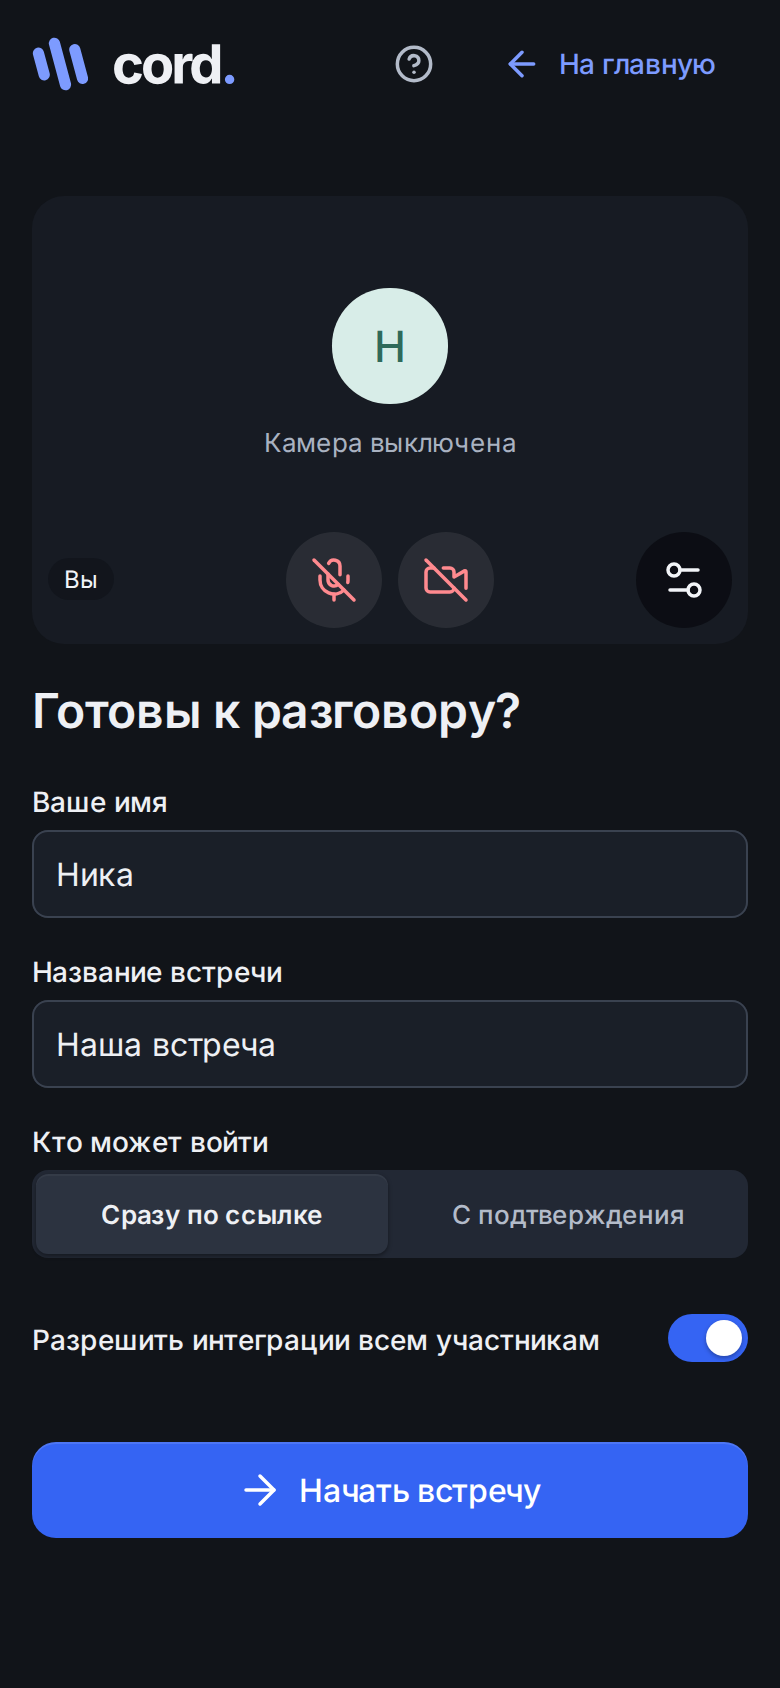
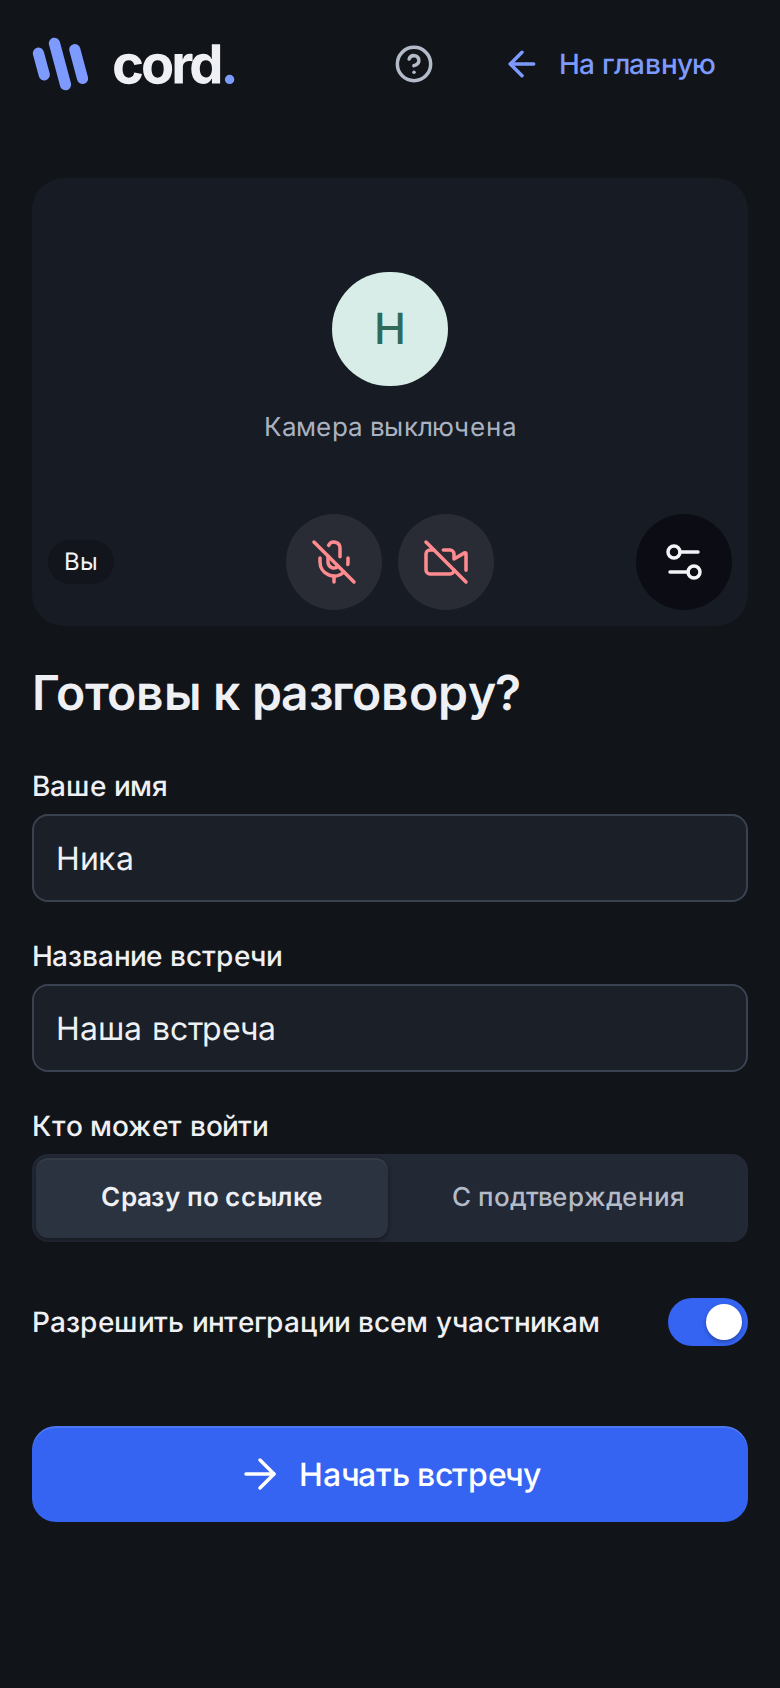
Предвход: две колонки и в самом узком окне клиента Windows (720 × 480) — без прокрутки; STATUS: R60, R72–R74, R76, R80–R82, R95, R103 готовы в ветке review/prejoin
Порог одной колонки — контейнер 680 px, ниже окна клиента 720 px: там две колонки помещаются и в
480 px высоты, а полоса прокрутки одной колонки перекидывала окно 720 px за порог и обратно. Поля по
высоте — 3dvh (в 480 px форма без прокрутки). e2e `meeting.spec` — и 720 × 480…900; снимки «после»
переснятые.

diff --git a/web/src/ui/prejoin.css b/web/src/ui/prejoin.css
@@ -12,9 +12,9 @@
   прокрутки документа, и с ней страница стала бы шире окна. Только токены `styles/tokens.css`.
 */
 .prejoin-page {
-  /* Шапка и поля по высоте: 64 / 24 px в высоком окне, 48 / 12 px в окне 600 px и ниже — плавно. */
+  /* Шапка и поля по высоте: 64 / 27 px в окне 900 px, 48 / 14 px в окне 480 px — плавно, без ступеней. */
   --prejoin-header-h: clamp(48px, 8dvh, 64px);
-  --prejoin-pad-y: clamp(var(--space-3), 4dvh, var(--space-12));
+  --prejoin-pad-y: clamp(var(--space-3), 3dvh, var(--space-12));
   min-height: 100dvh;
   display: grid;
   /* Колонка не шире окна, даже если содержимому шапки тесно (`minmax(0, …)`, а не `auto`). */
@@ -270,10 +270,12 @@
 
 /*
   Одна колонка: превью сверху, форма под ним, ширина до 560 px. Порог — ширина контейнера, а не
-  окна, и он один (без прежних ступеней 1199 / 767 / 560). Превью — не выше 42 % окна, чтобы форма
+  окна, и он один (без прежних ступеней 1199 / 767 / 560). Ниже самого узкого окна клиента Windows
+  (720 px): там две колонки помещаются без прокрутки и в 480 px высоты, а полоса прокрутки одной
+  колонки иначе перекидывала бы окно 720 px за порог и обратно. Превью — не выше 42 % окна, чтобы форма
   и кнопка входа поместились под ним.
 */
-@container prejoin (max-width: 719px) {
+@container prejoin (max-width: 679px) {
   .prejoin-main {
     grid-template-columns: minmax(0, 1fr);
     justify-self: center;

diff --git a/backlog/review-1.0.3/STATUS.md b/backlog/review-1.0.3/STATUS.md
@@ -63,7 +63,7 @@
 | R57 | WD1 | готово (22.10): релиз `desktop-v1.0.4`, зеркало `/downloads/windows/desktop/latest.yml` = 1.0.4; живая проверка на Windows — OWNER-ACTIONS | CI `desktop.yml` 39752311530 (test-installer: «Крестик: Cord жив, окно спрятано в трей», tray.ico 5+1 записей, AUMID `tech.cord.desktop`) |
 | R58 | WD1 | готово (22.10): релиз `desktop-v1.0.4`, зеркало `/downloads/windows/desktop/latest.yml` = 1.0.4; живая проверка на Windows — OWNER-ACTIONS | CI `desktop.yml` 39752311530 (test-installer: «Крестик: Cord жив, окно спрятано в трей», tray.ico 5+1 записей, AUMID `tech.cord.desktop`) |
 | R59 | WD1, W3 | оболочка — релиз 1.0.4; веб — готово, выкачено (24.10, `f893a81`); toast вживую — OWNER-ACTIONS | `core/desktop-notify.test.ts` (14), `core/meeting.test.ts` «уведомления Windows», `core/desktop-bridge.test.ts` (схема `contracts/desktop-bridge.v2.schema.json`) |
-| R60 | W7, WD2 | ждёт | |
+| R60 | W7, WD2 | веб — готово в ветке `review/prejoin` (24.10), не выкачено (`ef27202`); оболочка — окно выбора удалено в `review/desktop-wd2a` (`2ad92d7`) | окно показа — единственное: вкладки «Приложения · Весь экран · Устройства» (камеры, кроме своей; карта захвата — как показ, со своим звуком), «Звук компьютера» слева, сводка, «Чёткость / Плавность», шестерёнка (качество 720/1080/1440 × 30/60, превью, режим звука), одна «Показать»; выбор помнится в `preferences.screen` (+ `audio`); `ui/capture-picker.test.tsx` (8), `core/preferences.test.ts`, `media/capture.test.ts` (`deviceCapture`); e2e `capture-picker.spec.ts` (мост v2 подменён) против стенда через `stand-dev` 1/1; `review-1.0.3/shots/r60-picker-{before,after}-*` (1440, 768, обе темы) |
 | R61 | WD1 | готово (22.10): релиз `desktop-v1.0.4`, зеркало `/downloads/windows/desktop/latest.yml` = 1.0.4; живая проверка на Windows — OWNER-ACTIONS | CI `desktop.yml` 39752311530 (test-installer: «Крестик: Cord жив, окно спрятано в трей», tray.ico 5+1 записей, AUMID `tech.cord.desktop`) |
 | R62 | WD2 | ждёт | |
 | R63 | WD2 | ждёт | |
@@ -75,17 +75,17 @@
 | R69 | W-int | ждёт | |
 | R70 | W5 | ждёт | |
 | R71 | W5 | ждёт | |
-| R72 | W7 | ждёт | |
-| R73 | W7 | ждёт | |
-| R74 | W7 | ждёт | |
+| R72 | W7 | готово в ветке `review/prejoin` (24.10), не выкачено (`da9c0c2`) | зонтичная — R73, R74, R76; «Перед разговором» — kit `Dialog` не выше окна, без подзаголовка, качество сегментами (R78); `ui/prejoin.test.tsx` (5: 720p · 30 по умолчанию, отказ устройства под превью, команда создания); `review-1.0.3/shots/r72-settings-{before,after}-*` |
+| R73 | W7 | готово в ветке `review/prejoin` (24.10), не выкачено (`da9c0c2`) | в 1280×714 всё в окне, кнопка входа видна, превью и форма с одной линии (разница верхов ≤ 8 px), полоса `html` не нужна; e2e `meeting.spec` «предвход помещается в любое окно…»; `review-1.0.3/shots/r76-prejoin-{before,after}-1280x714-*` |
+| R74 | W7 | готово в ветке `review/prejoin` (24.10), не выкачено (`da9c0c2`) | ×8 убраны «айбрау», «Проверьте, как вас видят…», «Название можно будет поменять…», пояснения под доступом, «Иначе кинозал…», «Это можно поменять и потом…», наушники, заметка о разрешении (отказ — строкой под превью после отказа), «Ссылка и QR…», подзаголовок «Перед разговором»; «Кто может войти» — сегмент «Сразу по ссылке / С подтверждения», интеграции — `Switch`; `ui/prejoin.test.tsx`, e2e `meeting.spec`, `return-and-settings.spec` (радио «С подтверждения») |
 | R75 | W0 | готово, выкачено (22.10, `768aef9`) | `focus-modality.spec` «меню избранного» |
-| R76 | W7 | ждёт | |
+| R76 | W7 | готово в ветке `review/prejoin` (24.10), не выкачено (`da9c0c2`) | `ui/prejoin.css`: размеры плавно от ширины (`cqi`) и высоты (`dvh`), одна точка 2 → 1 колонка (контейнер 720), кнопка входа `sticky` к низу окна; e2e `meeting.spec`: 46 размеров 320…2560 × 480/600/714/720/900 + 2560×1440 — без горизонтальной прокрутки, кнопка в окне целиком, колонки с одной линии, превью в окне; проходы шагом 10 px по ширине (320→2560) и высоте (480→1440, 390×480→1000) — скачков > 25 px нет, кроме перехода колонок; против стенда через `stand-dev` и в CI 40121394385 (зелёный); `review-1.0.3/shots/r76-prejoin-{before,after}-{1440,390,1280x714}-*` |
 | R77 | W3 | готово, выкачено (24.10, `f893a81`) | `call-dock.test.tsx` (класс danger, MonitorX), e2e `screens.spec` (кнопка красная); на телефоне — красная кнопка на своей плитке; `screens/R103/W3/after/meeting-share-*` |
 | R78 | W1c, W2, W7 | медиа готово (22.10); UI настроек готов в ветке `review/W2` (сегменты 720/1080/1440 × 30/60, `QualityFields {kind,value,onChange,ceiling}`, `CAMERA_DEFAULT`); окно показа — W7 | `Settings.test.tsx` «Видео (R100, R78)», `preferences.test.ts` «камера: умолчание 720p30…», e2e `return-and-settings` (радио) |
 | R79 | W6 | ждёт | |
-| R80 | W1c, W7, W2 | частично: медиа + умолчание «Превью показа» в «Видео»; переключатель на один показ — W7 |  |
-| R81 | W1c | готово, выкачено (22.10, `5b4858d`) | screen-stop: 127 мс; `journal/2026-10-22-review-I1.md` |
-| R82 | W7, W2, WD2 | ждёт | |
+| R80 | W1c, W7, W2 | медиа и «Видео» — выкачено; переключатель в окне показа — готово в ветке `review/prejoin` (24.10), не выкачено (`ef27202`) | «Показывать превью зрителям» в шестерёнке окна показа — то же поле `preferences.screen.preview`; `ui/capture-picker.test.tsx` (R80), e2e `capture-picker.spec.ts` (выключенное превью ушло в профиль показа) |
+| R81 | W1c, W7 | готово, выкачено (22.10, `5b4858d`); «Остановить показ» во время разгона показа — готово в ветке `review/prejoin` (24.10), не выкачено (`ef27202`) | screen-stop: 127 мс; `journal/2026-10-22-review-I1.md`; нажатие до кадра целевого размера раньше пропадало (`screenBusy`) — `media/session.test.ts` «Остановить показ во время разгона…» (красный до правки), e2e `capture-picker.spec.ts` |
+| R82 | W7, W2, WD2 | частично: n05 (окно показа Телемоста) — готово в ветке `review/prejoin` (24.10), не выкачено (`ef27202`); n04, n06–n11 — WD2, n08/n09 — W2 | сетка миниатюр, выбранная — обводкой акцента, «Звук компьютера» слева внизу, одна главная кнопка; `review-1.0.3/shots/r60-picker-after-*` |
 | R83 | W3 | готово, выкачено (24.10, `f893a81`) | корень: в сетке закрепление ставило лишь `inset`-рамку, которую закрывал кадр, а «Открепить» не было; `core/meeting.test.ts`, `stage-pin.test.tsx` (5), e2e `stage-pin.spec.ts` двумя браузерами через SFU — зелёный; `screens/R103/W3/after/meeting-pinned-*` |
 | R84 | W3 | готово, выкачено (24.10, `f893a81`) (живой телефон — OWNER-ACTIONS) | e2e `stage-pin.spec.ts` на 390: крупная плитка и лента в viewport, «Открепить» ≥ 44 px, 0 переполнения, «Говорящий»; двое в сетке — две половины |
 | R85 | W1c | частично (22.10) | медиа-часть выкачена; нативный путь — WD2 по воротам |
@@ -98,7 +98,7 @@
 | R92 | W1c | готово (22.10) | MEDIA-DIAGNOSIS §9 — ответ |
 | R93 | WD2 | ждёт | |
 | R94 | W4 | ждёт | |
-| R95 | W1c, W7 | частично (22.10) | режимы в профиле выкачены; UI — W7 |
+| R95 | W1c, W7 | режимы в профиле выкачены (22.10); UI — готово в ветке `review/prejoin` (24.10), не выкачено (`ef27202`) | сегмент «Чёткость / Плавность» в окне показа, сводка «Чёткость · 1080p · до 60 fps»; `ui/capture-picker.test.tsx` |
 | R96 | W1c | частично (22.10) | MEDIA §9 решения внедрены; нативный путь — WD2 |
 | R97 | W1c | готово, выкачено (22.10, `5b4858d`) | `MediaRoomCloser` afterCommit; RoomServiceTest, MediaRoomCloserTest |
 | R98 | W1c | готово, выкачено (22.10, `5b4858d`) | screen-latency: 1150 мс; `journal/2026-10-22-review-I1.md` |
@@ -106,7 +106,7 @@
 | R100 | W2 | готово, выкачено (22.10, `44bd785`) | `AudioSection`, `VideoSection` с превью камеры; скрины `backlog/screens/R103/W2/{before,after}` |
 | R101 | W2 | готово, выкачено (22.10, `44bd785`) | e2e: каждый раздел без прокрутки 1280×800 и 1440×900 |
 | R102 | W1c | готово (22.10) | учтено в §9 |
-| R103 | WD2 | ждёт | |
+| R103 | WD2 | оболочка — ветка `review/desktop-wd2a`; сторона ядра — готово в ветке `review/prejoin` (24.10), не выкачено (`1322be8`) | веб шлёт `state.language` (i18n.resolvedLanguage, `core/desktop-state.ts`), `chat.open` открывает чат встречи (`ui/useTrayChat.ts`); схема `contracts/desktop-bridge.v2.schema.json`: `chat.open`, `$defs/state` с `language`, `appSettings.notifications`, `hotkeysStatus` с кодами global / global-raw / taken / duplicate / window-only — сверено с `bridge.ts`, `tray-menu.ts`, `hotkeys.ts` ветки оболочки; `core/desktop-bridge.test.ts` (R103), `core/desktop.test.ts`, `ui/tray-chat.test.tsx` |
 | R104 | WD2 | ждёт | |
 | R105 | WD2 | ждёт | |
 | R106 | W1b | готово, выкачено (24.10, `1df8ec5`) | `RateFallbackTest` (5); метрика `cord_rate_limiter_fallback_total`, алерт `RateLimiterFallback` |
@@ -148,7 +148,7 @@
 | I4 | W2 → `main`, выкатка №4 | ветка `review/W2` готова (22.10), ждёт слияния архитектором |
 | I5 | W3 → `main`, выкатка №5 | готово (24.10): `775e503`/`f893a81`, `deploy.sh gateway`; против стенда stage-pin, meeting, screens, focus-modality, home-shell — 17/17 |
 | I6 | W1b → `main`, выкатка с дренажем | ждёт |
-| I7 | W7 → `main`, выкатка №7 | ждёт |
+| I7 | W7 → `main`, выкатка №7 | ветка `review/prejoin` готова (24.10): R72–R74, R76, R60 (веб), R80, R82 (n05), R95 (UI), R103 (ядро); выкатка — `gateway` |
 | I8 | W4 → `main`, выкатка №8 | ждёт |
 | I9 | W6 → `main`, выкатка №9 | ждёт |
 | I10 | W5 → `main`, выкатка №10 | ждёт |
